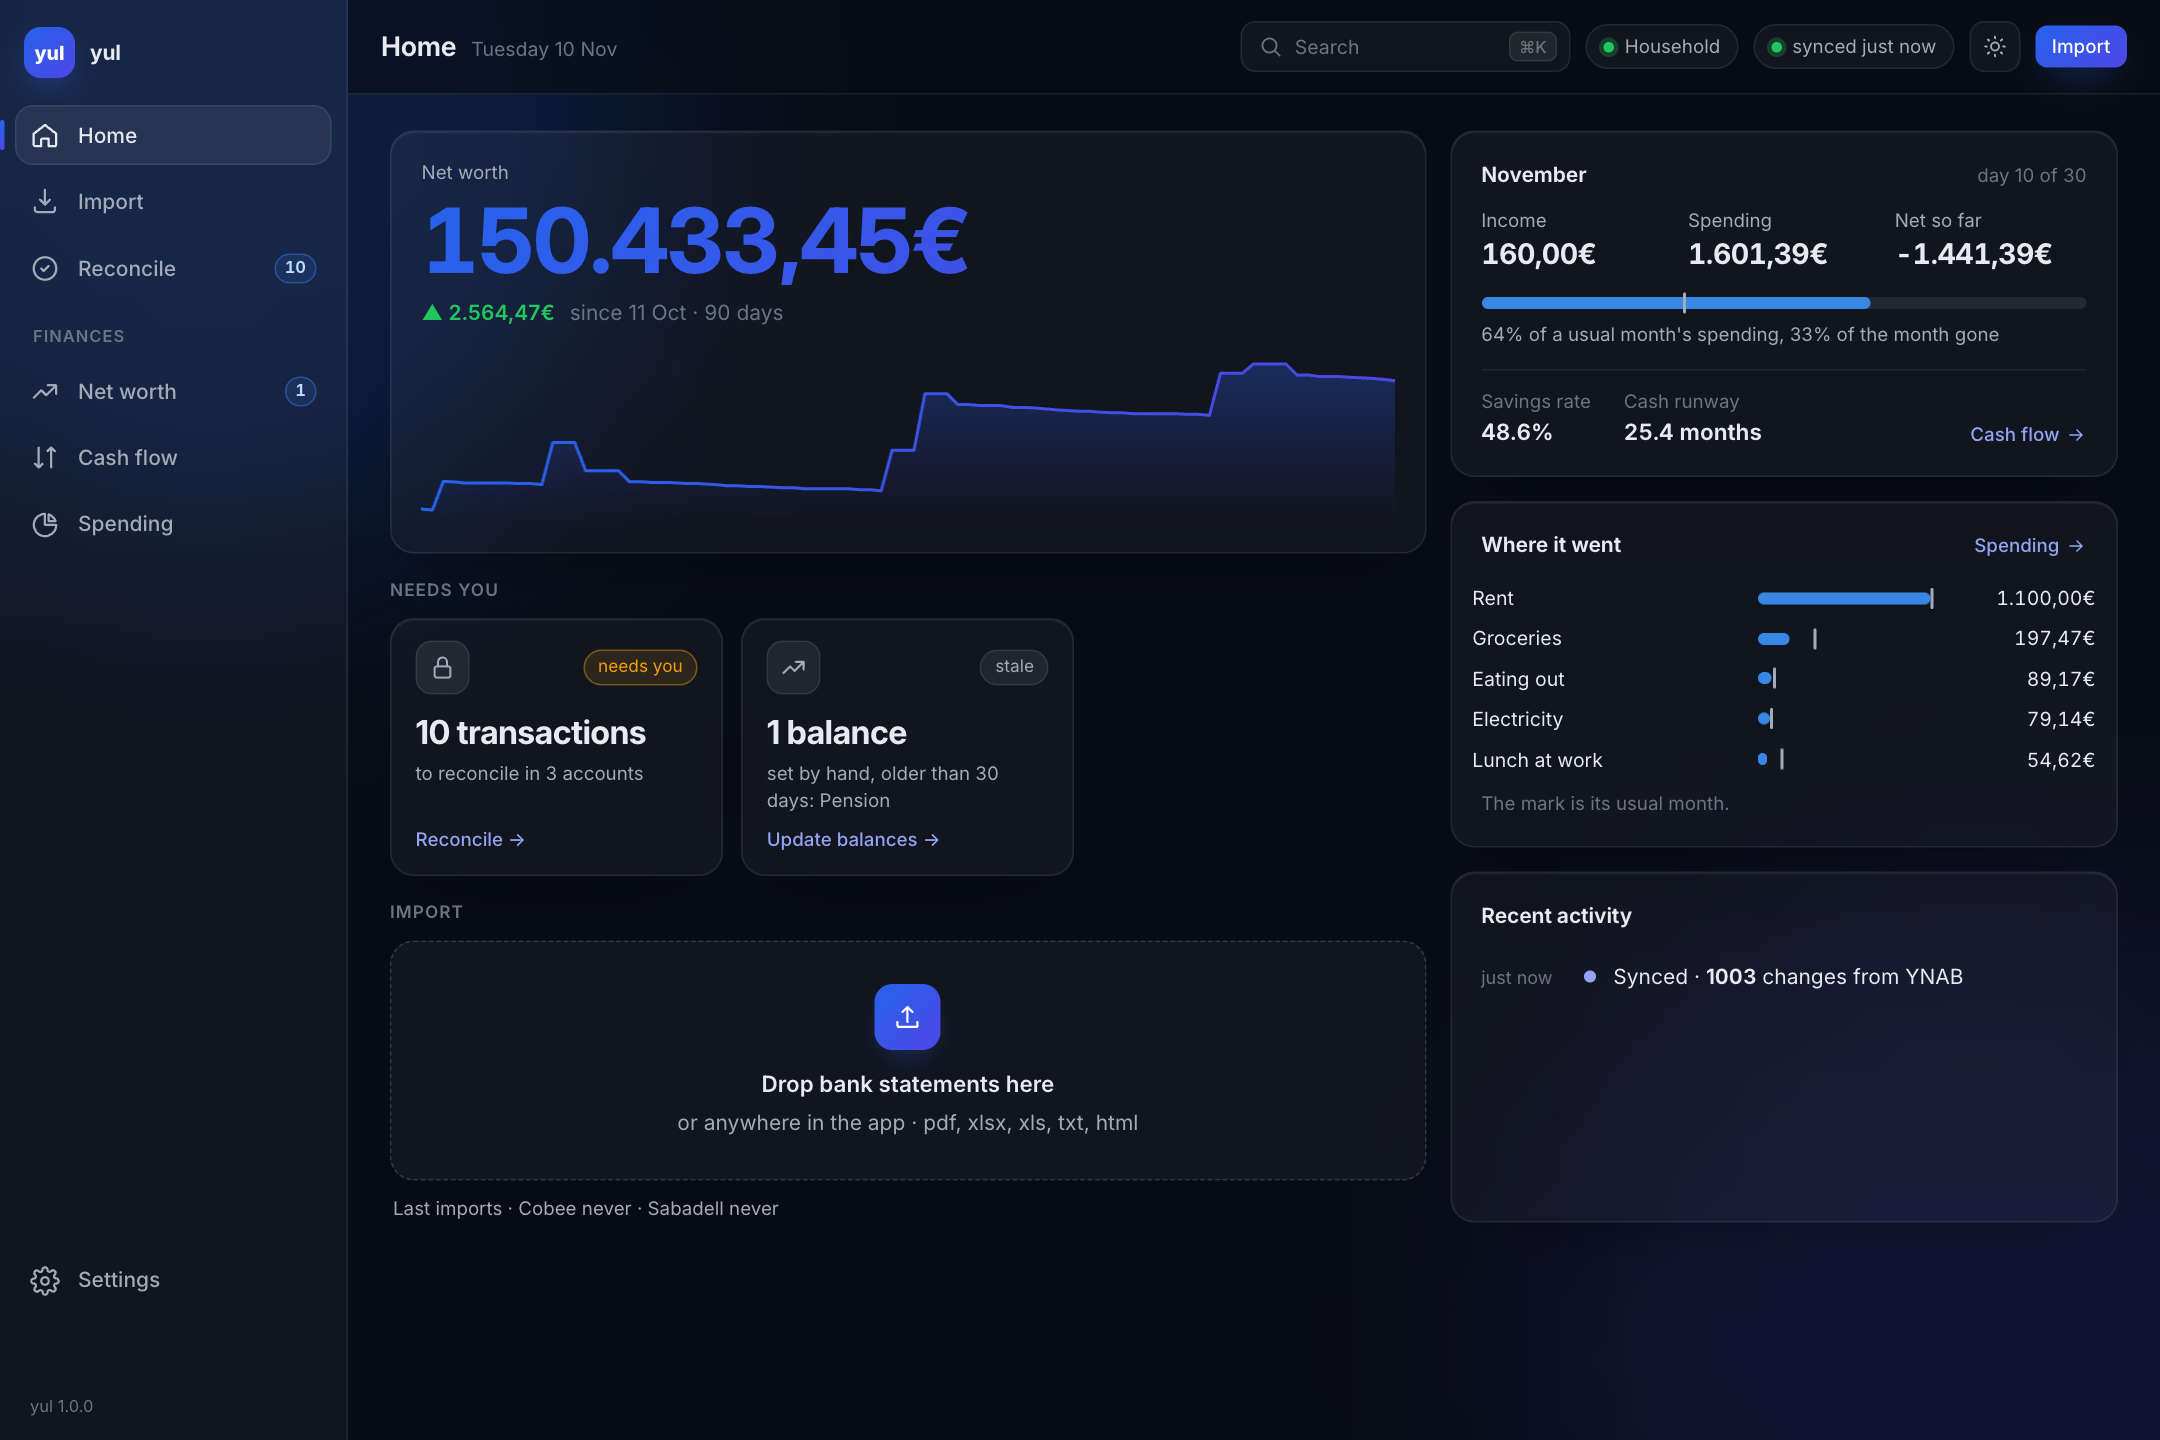
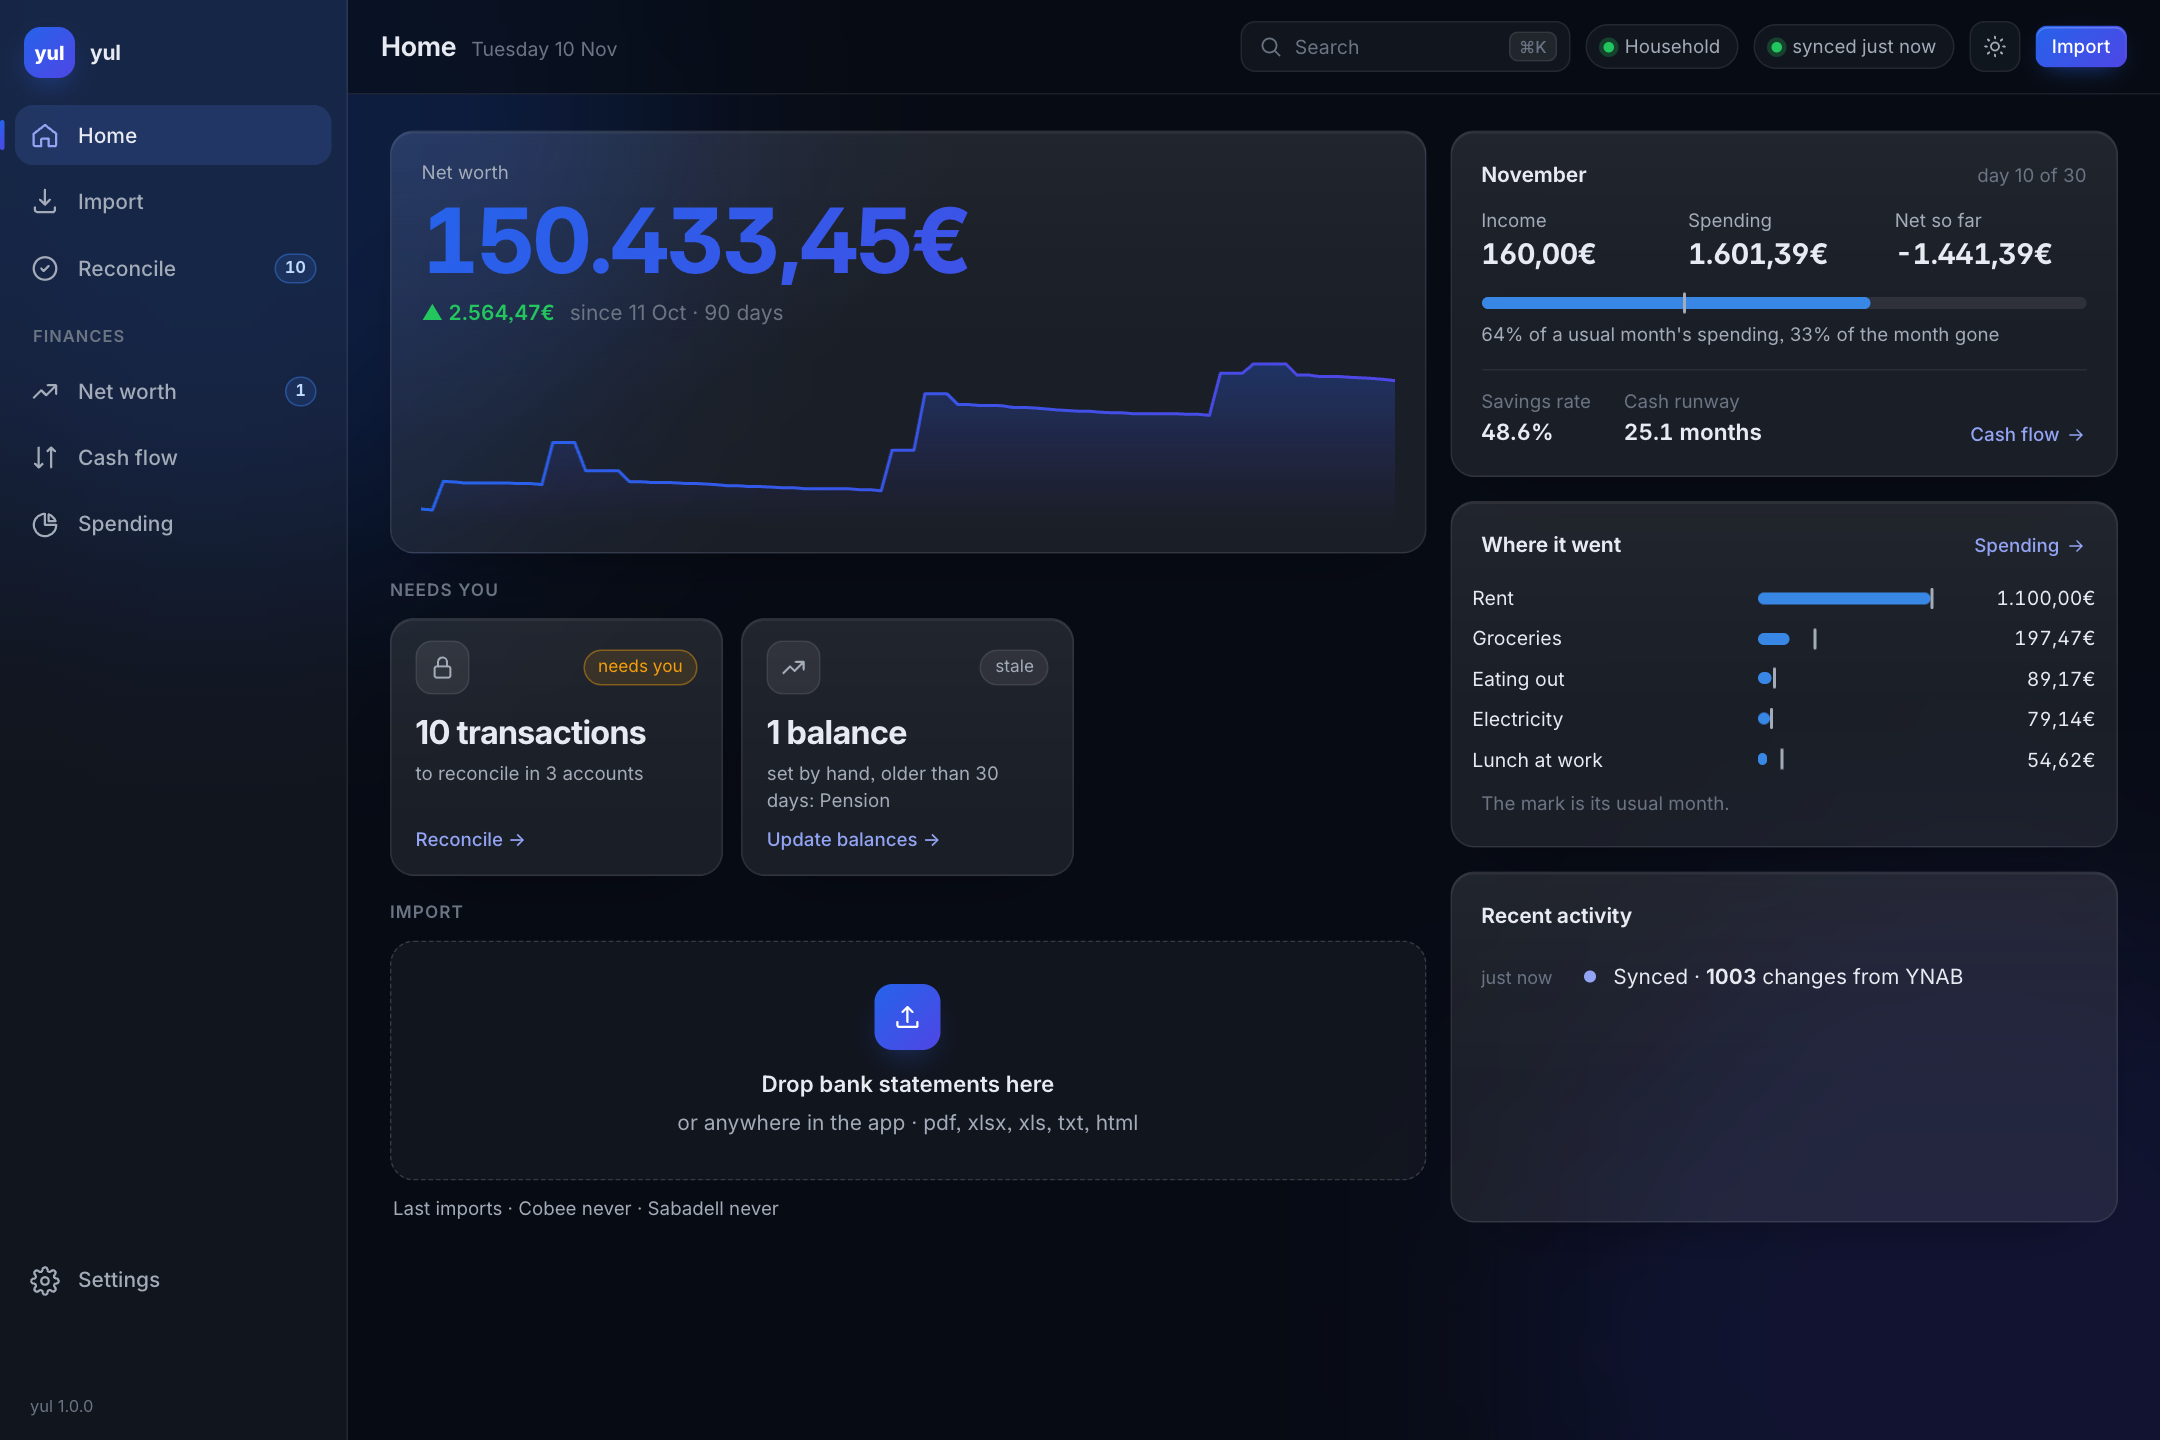
A more refined look: lit cards, accent tinted selection, open digits, one focus ring
The open page in the sidebar and the chosen range pill are tinted with the
accent instead of grey. Cards are lit from the top and the two heroes carry
a glow of the accent. Figures use Inter's open digits. Everything reached
with the keyboard shows the same ring, and scrollbars are thin. The README
pictures are taken again.

Changed region(s): [[0.1551, 0.0938, 0.3722, 0.1875]]

diff --git a/src/ynab_unlinked/web/static/yul.css b/src/ynab_unlinked/web/static/yul.css
@@ -190,7 +190,16 @@ body {
   font-size: 14px;
   line-height: 1.45;
   -webkit-font-smoothing: antialiased;
+  text-rendering: optimizeLegibility;
+  font-feature-settings: "calt", "ss03";
   min-height: 100vh;
+}
+/* Thin scrollbars in the theme's own greys, wherever something scrolls */
+* { scrollbar-width: thin; scrollbar-color: var(--border-2) transparent; }
+/* One focus ring for everything reached with the keyboard that has no field of its own */
+[role="link"]:focus-visible, [role="button"]:focus-visible, [role="tab"]:focus-visible,
+[role="option"]:focus-visible, [role="switch"]:focus-visible, .yul-pills > *:focus-visible {
+  outline: none; box-shadow: 0 0 0 3px var(--ring);
 }
 body::before, body::after {
   content: "";
@@ -215,13 +224,17 @@ body::after { background: var(--bg-blob-2); bottom: -240px; right: -180px; }
 .yul-small { font-size: 12.5px; }
 .yul-mono { font-family: var(--mono); font-size: 12px; }
 .yul-num { font-variant-numeric: tabular-nums; }
+/* Figures: Inter's open digits, the 4, 6 and 9 read faster in a column of money */
+.yul-num, .yul-hero, .yul-tile-v, .yul-nw-figure, .yul-month-k, .yul-month-s, .yul-attn-k, .yul-nav-badge {
+  font-feature-settings: "calt", "ss01", "ss03";
+}
 .yul-good { color: var(--good); }
 .yul-warn { color: var(--warn); }
 .yul-bad { color: var(--bad); }
 .yul-h2 { margin: 0 0 4px; font-size: 18px; font-weight: 650; letter-spacing: -.01em; line-height: 1.3; }
 .yul-lede { margin: 0 0 16px; color: var(--text-2); }
 .yul-grad { background: var(--accent); -webkit-background-clip: text; background-clip: text; color: transparent; }
-.yul-hero { font-size: 56px; font-weight: 700; letter-spacing: -.02em; line-height: 1; }
+.yul-hero { font-size: 56px; font-weight: 700; letter-spacing: -.03em; line-height: 1; }
 .yul-label { font-size: 11.5px; color: var(--text-3); text-transform: uppercase; letter-spacing: .05em; }
 .yul-link { color: var(--accent-2); text-decoration: underline; text-underline-offset: 3px; }
 .yul-link:hover { color: var(--text); }
@@ -267,7 +280,8 @@ body::after { background: var(--bg-blob-2); bottom: -240px; right: -180px; }
 .yul-nav svg { width: 20px; height: 20px; flex: none; }
 .yul-nav-label { font-weight: 500; }
 .yul-nav:hover, .yul-nav:focus-visible { background: var(--surface-2); color: var(--text); transform: translateX(1px); }
-.yul-nav.on { background: var(--surface-2); color: var(--text); box-shadow: inset 0 0 0 1px var(--border); }
+.yul-nav.on { background: color-mix(in oklab, var(--accent-solid) 14%, var(--surface)); color: var(--text); }
+.yul-nav.on svg { color: var(--accent-2); }
 .yul-nav.on::before {
   content: ""; position: absolute; left: -10px; top: 10px; bottom: 10px; width: 3px;
   border-radius: 3px; background: var(--accent);
@@ -403,7 +417,7 @@ body[data-mac] .yul-kbd-palette::before { content: "⌘K"; }
 .q-btn.yul-btn:active { transform: scale(.98); }
 /* The gradient starts at the border box: from the padding box it tiles into the transparent
    1px border and paints the opposite end there (a cyan hairline on the left, indigo on the right). */
-.q-btn.yul-btn.primary { background: var(--accent) border-box; color: var(--on-accent); border-color: transparent; box-shadow: 0 10px 24px -10px color-mix(in oklab, var(--accent-solid) 80%, transparent); }
+.q-btn.yul-btn.primary { background: var(--accent) border-box; color: var(--on-accent); border-color: transparent; box-shadow: inset 0 1px 0 rgba(255, 255, 255, .22), 0 6px 16px -8px color-mix(in oklab, var(--accent-solid) 75%, transparent); }
 .q-btn.yul-btn.primary:hover { filter: brightness(1.08); }
 .q-btn.yul-btn.ghost { border-color: transparent; background: transparent; backdrop-filter: none; }
 .q-btn.yul-btn.ghost:hover { background: var(--surface-2); }
@@ -445,12 +459,16 @@ body.body--dark .q-field__native, body.body--dark .q-field__input { color: var(-
 
 /* ---- glass card ---- */
 .yul-card {
-  background: var(--surface); border: 1px solid var(--border); border-radius: var(--r);
+  background: linear-gradient(180deg, var(--surface-2), var(--surface) 140px) var(--surface);
+  border: 1px solid var(--border); border-radius: var(--r);
   padding: 18px 20px; backdrop-filter: blur(16px); -webkit-backdrop-filter: blur(16px);
   box-shadow: inset 0 1px 0 var(--highlight), var(--shadow);
   transition: border-color .2s, transform .2s;
 }
-.yul-card.hov:hover { border-color: var(--border-2); transform: translateY(-1px); }
+.yul-card.hov:hover {
+  border-color: color-mix(in oklab, var(--accent-solid) 45%, var(--border-2)); transform: translateY(-2px);
+  box-shadow: inset 0 1px 0 var(--highlight), 0 24px 44px -30px color-mix(in oklab, var(--accent-solid) 60%, transparent), var(--shadow);
+}
 .yul-card.flush { padding: 0; overflow: hidden; }
 /* Cards with a switch (Settings Banks and Accounts): the whole card is the state, never a pill.
    live = switched on, off = muted; an off card keeps its controls usable. */
@@ -468,7 +486,7 @@ body.body--dark .q-field__native, body.body--dark .q-field__input { color: var(-
 /* ---- stat tile, segmented bar, empty state ---- */
 .yul-tile { padding: 14px 16px; }
 .yul-tile-l { color: var(--text-2); font-size: 12px; display: flex; align-items: center; gap: 7px; }
-.yul-tile-v { font-size: 22px; font-weight: 700; letter-spacing: -.02em; margin-top: 3px; font-variant-numeric: tabular-nums; }
+.yul-tile-v { font-size: 23px; font-weight: 680; letter-spacing: -.025em; margin-top: 4px; font-variant-numeric: tabular-nums; }
 .yul-tile-w { font-size: 11.5px; color: var(--text-3); }
 .yul-swatch { width: 9px; height: 9px; border-radius: 3px; display: inline-block; flex: none; }
 .yul-seg { display: flex; height: 10px; gap: 2px; border-radius: 6px; overflow: hidden; margin: 4px 0 2px; }
@@ -751,6 +769,11 @@ body.yul-dragging .yul-dropover { display: grid; animation: yul-fade .15s ease b
   border: 1px dashed var(--border); color: var(--text-2); font-size: 13px;
 }
 .yul-hero-card { cursor: pointer; }
+.yul-hero-card, .yul-nw-hero {
+  background:
+    radial-gradient(90% 120% at 0% 0%, color-mix(in oklab, var(--accent-solid) 13%, transparent), transparent 62%),
+    linear-gradient(180deg, var(--surface-2), var(--surface) 140px) var(--surface);
+}
 .yul-hero-card .yul-hero { font-size: clamp(34px, 6.2vw, 60px); white-space: nowrap; font-weight: 750; letter-spacing: -.025em; margin: 6px 0 8px; font-variant-numeric: tabular-nums; }
 .yul-delta { font-weight: 600; }
 .yul-spark { height: 120px; margin-top: 12px; }
@@ -814,7 +837,7 @@ body.yul-dragging .yul-dropover { display: grid; animation: yul-fade .15s ease b
   white-space: nowrap;
 }
 .yul-pills > *:hover, .yul-pills > *:focus-visible { color: var(--text); }
-.yul-pills > .on { background: var(--surface-2); color: var(--text); box-shadow: inset 0 0 0 1px var(--border-2); }
+.yul-pills > .on { background: var(--pill-acc-bg); color: var(--pill-acc-text); box-shadow: inset 0 0 0 1px var(--pill-acc-border); font-weight: 600; }
 .yul-rec-switch {
   display: inline-flex; align-items: center; gap: 8px; cursor: pointer; font-size: 13px;
   color: var(--text-2); user-select: none; outline: none; flex: none;

diff --git a/.claude/skills/yul-web-design/DESIGN.md b/.claude/skills/yul-web-design/DESIGN.md
@@ -436,8 +436,16 @@ and brightens the border.
 ### Type
 
 Inter (bundled variable font, `font-display: swap`), fallback `system-ui`. Body 14px,
-secondary 12.5px, titles 18px semibold, hero 56px bold with `letter-spacing: -0.02em`
-and gradient text. `tabular-nums` in tables and axis ticks only.
+secondary 12.5px, titles 18px semibold, hero 56px bold with `letter-spacing: -0.03em`
+and gradient text. `tabular-nums` in tables and axis ticks only. Figures (money, counts,
+percentages) use Inter's open digits (`ss01`): the 4, 6 and 9 read faster in a column.
+
+Depth and selection: a card is lit from the top (a faint gradient from `--surface-2` to
+`--surface`), and the two heroes (Home, Net worth) carry a glow of the accent in their top
+left corner. What is chosen is tinted with the accent, never grey: the open page in the
+sidebar (and its icon), the chosen range pill, a chosen chip. A card that can be clicked
+lifts 2px and takes an accent border on hover. Everything reached with the keyboard that is
+not a field shows the same 3px ring (`--ring`). Scrollbars are thin and in the theme's greys.
 
 ### Motion
 

diff --git a/changelog/+app-refresh.improved.md b/changelog/+app-refresh.improved.md
@@ -1,1 +1,1 @@
-The app is easier to move around and keeps itself current: a command palette (⌘K, Ctrl+K or /) reaches every page, tab, category and account; Home shows the month so far against a usual one; the sidebar counts what is waiting; the finance pages share one remembered range; the budget copy syncs on its own; and the layout works on a phone.
+The app is easier to move around and keeps itself current: a command palette (⌘K, Ctrl+K or /) reaches every page, tab, category and account; Home shows the month so far against a usual one; the sidebar counts what is waiting; the finance pages share one remembered range; the budget copy syncs on its own; the layout works on a phone, and the look is more refined (lit cards, accent tinted selection, clearer figures).

diff --git a/changelog/+labels-history.improved.md b/changelog/+labels-history.improved.md
@@ -1,0 +1,1 @@
+Spending tells what a category is (steady, variable, spiky, lumpy) from up to three years of history instead of the range on screen, so a yearly charge is lumpy even when you look at one month, and the 1M range shows the month so far.
